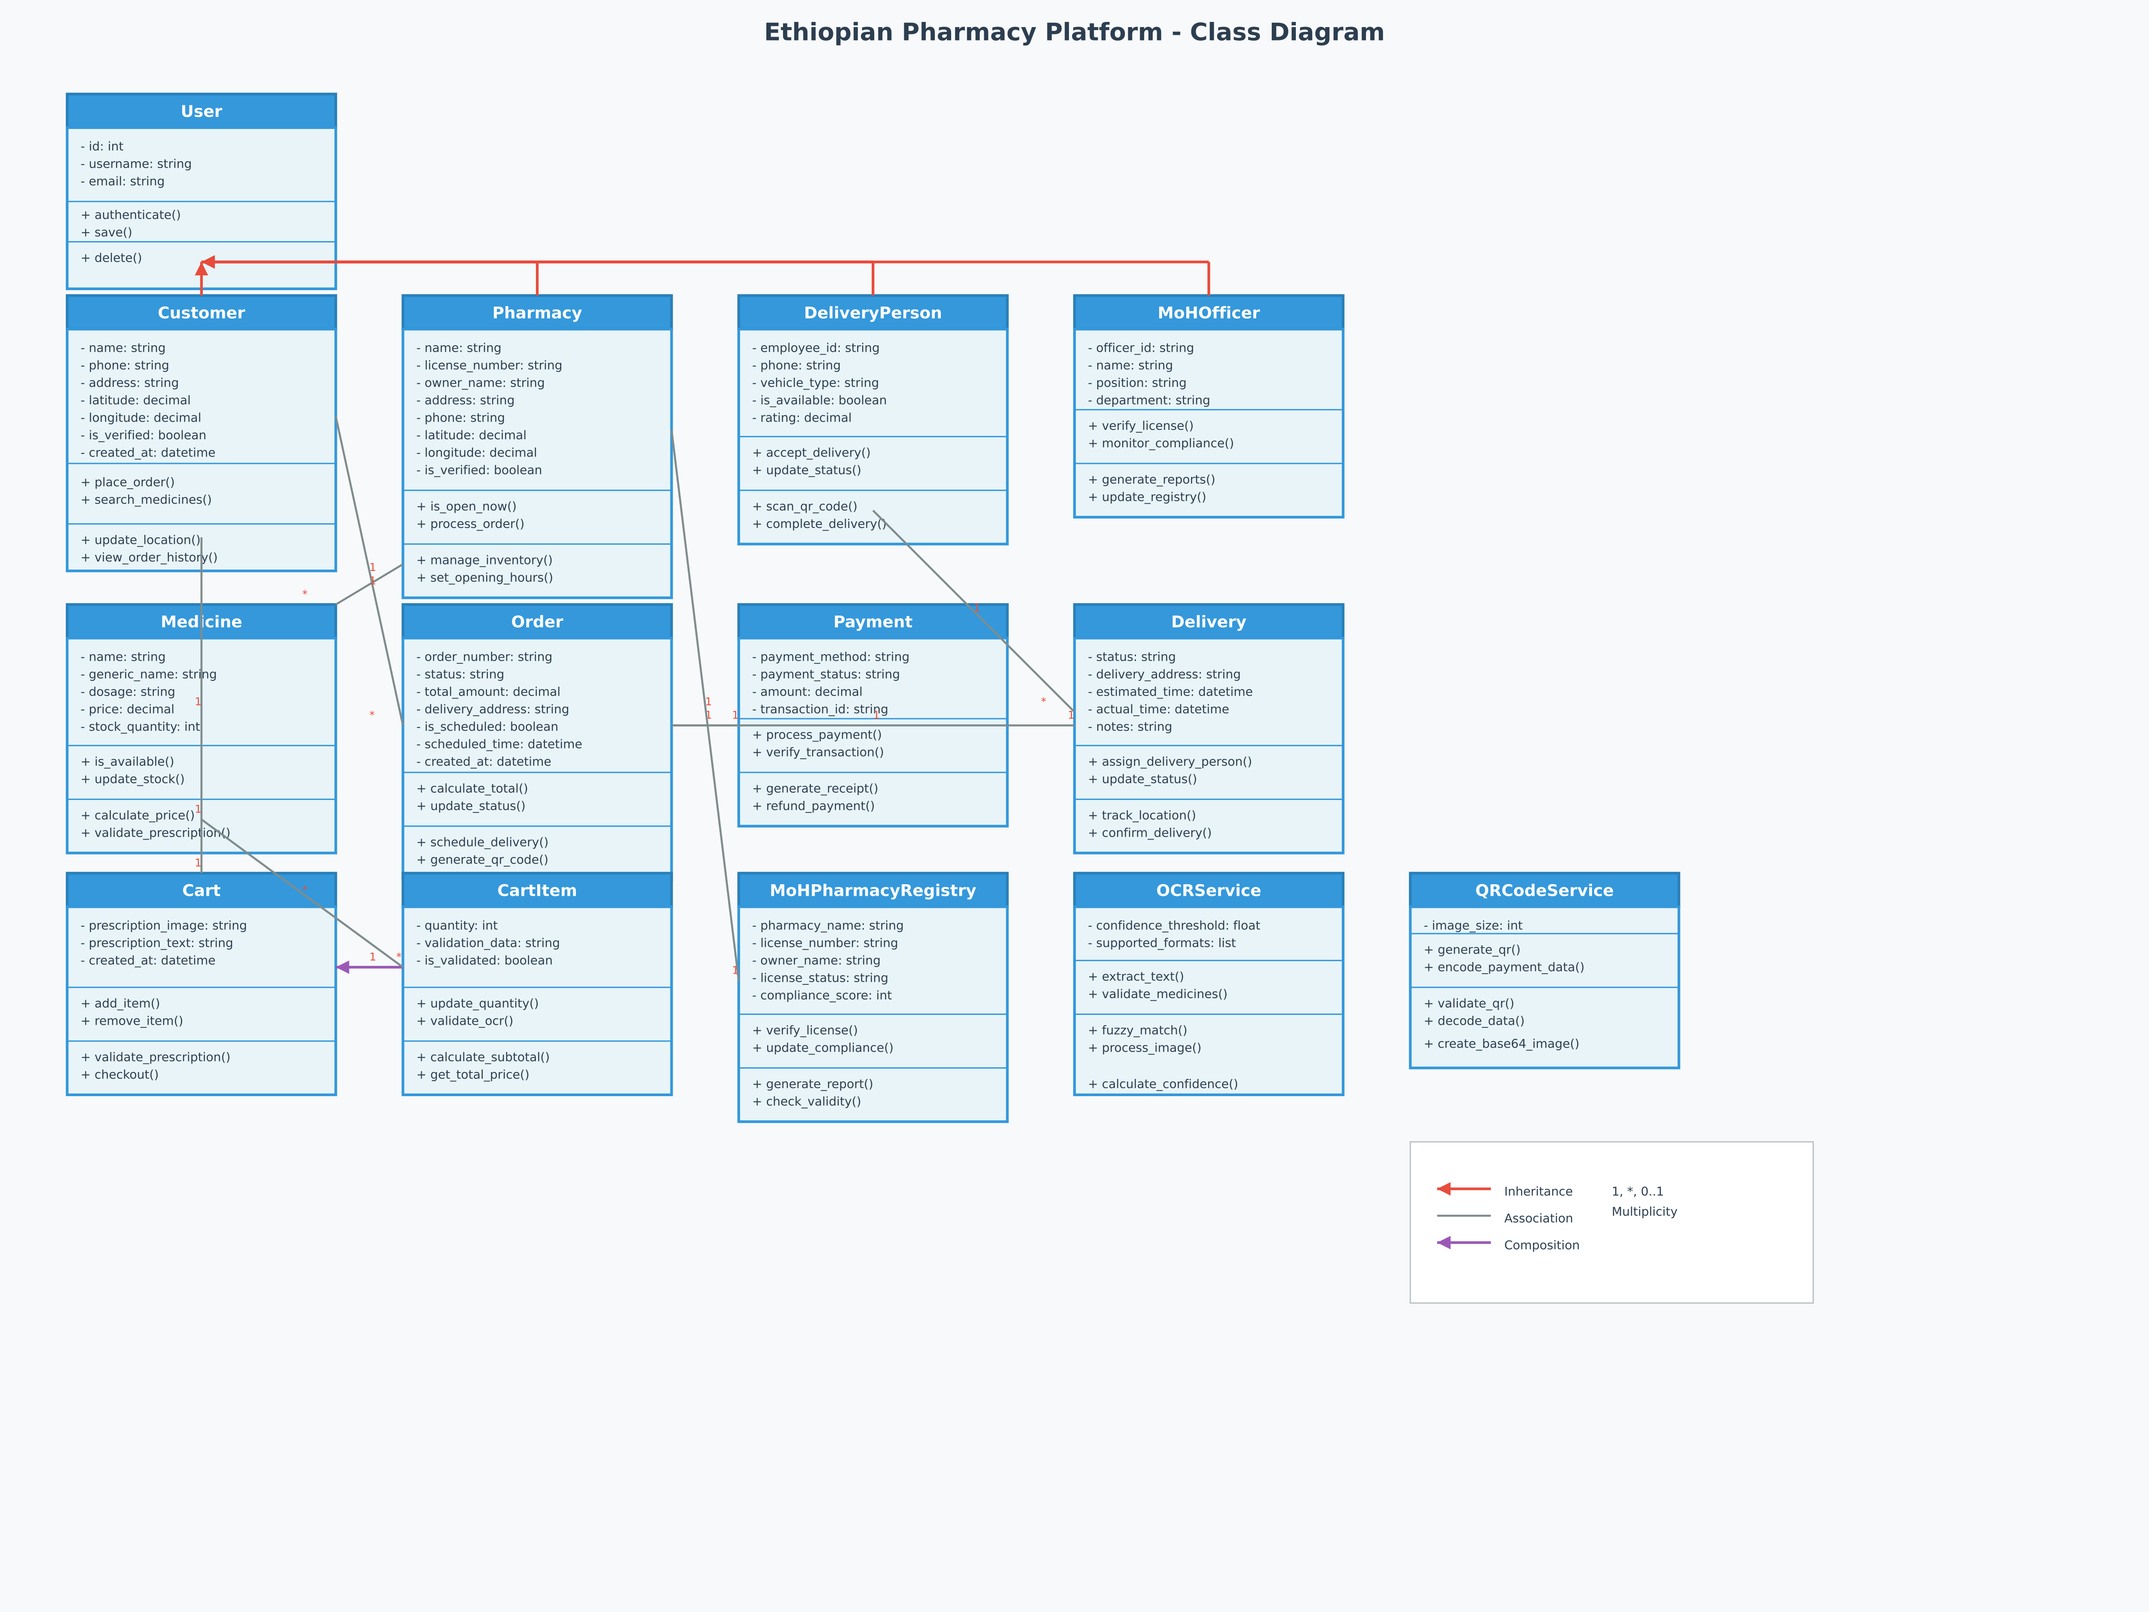
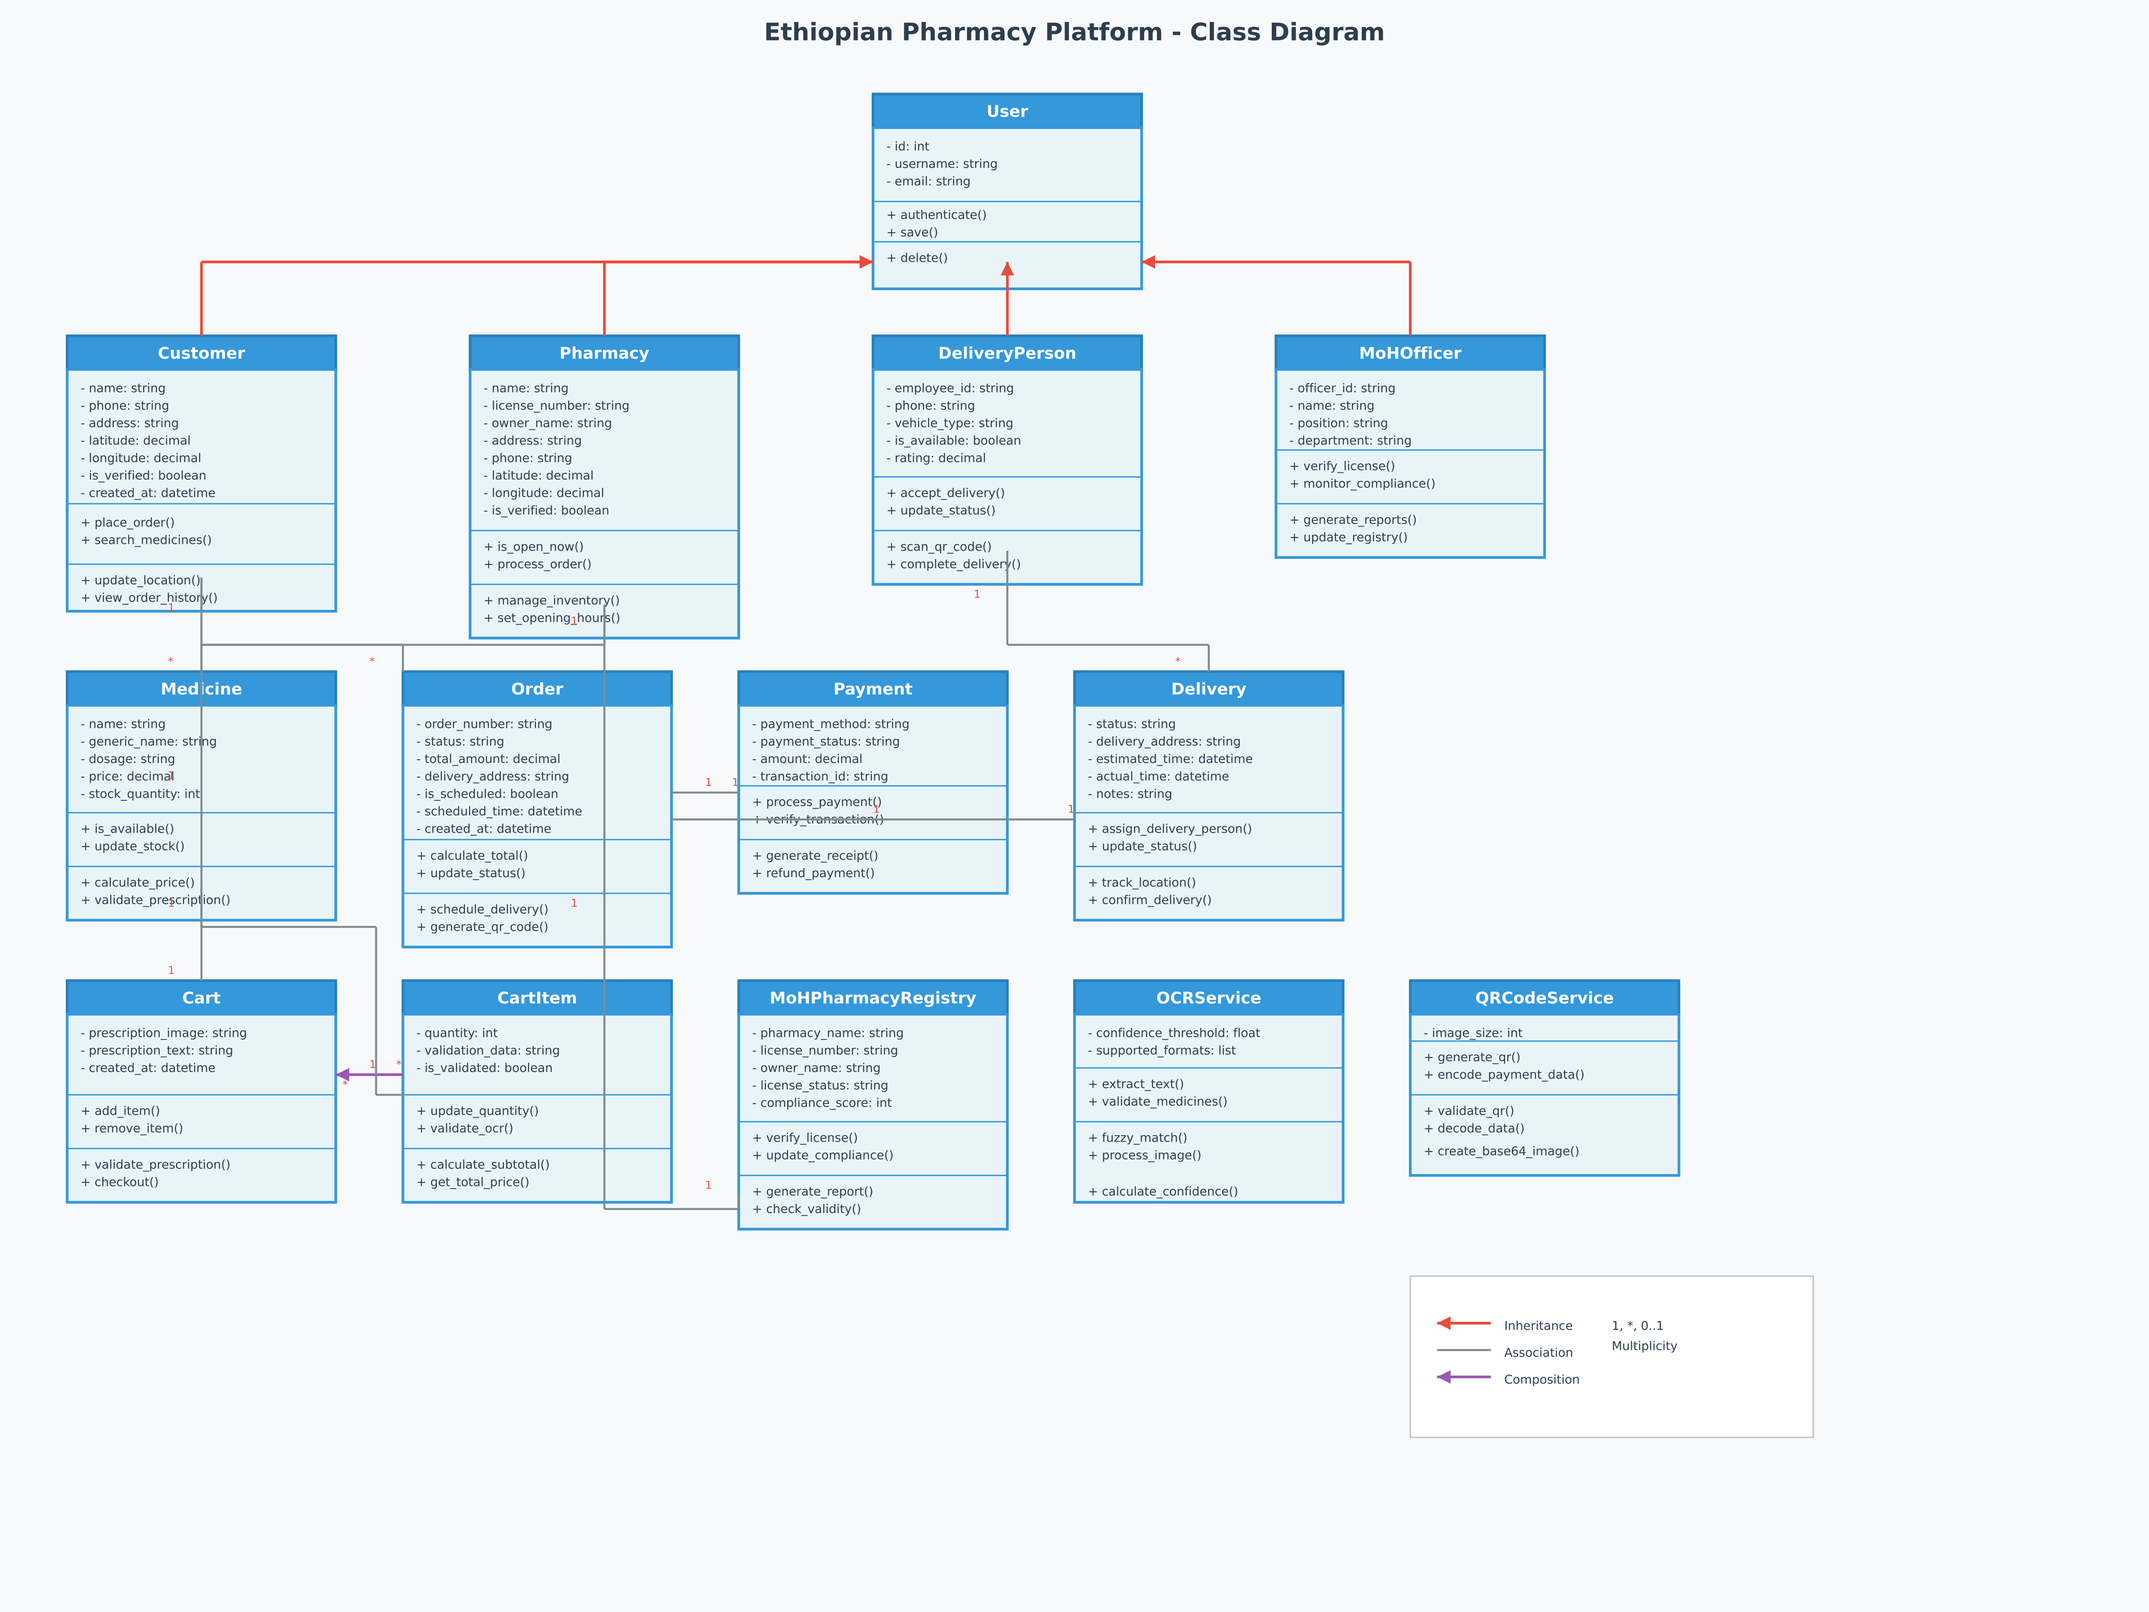
Rearrange elements in class diagram for improved readability and clarity
Repositions class diagram elements in class_diagram.py and SVG to prevent overlap.

Replit-Commit-Author: Agent
Replit-Commit-Session-Id: 049bb483-77e7-4104-a8ac-e9cb16096b01
Replit-Commit-Screenshot-Url: https://storage.googleapis.com/screenshot-production-us-central1/099855aa-fdc1-4c7a-b841-b0aadc4a57d0/953d0f03-541a-41b2-b32b-20188949d618.jpg

diff --git a/class_diagram.py b/class_diagram.py
@@ -33,8 +33,8 @@ def generate_class_diagram():
   <!-- Title -->
   <text x="800" y="30" class="title">Ethiopian Pharmacy Platform - Class Diagram</text>
   
-  <!-- User Class (Base) -->
-  <g transform="translate(50,70)">
+  <!-- User Class (Base) - Centered at top -->
+  <g transform="translate(650,70)">
     <rect width="200" height="25" class="class-header"/>
     <text x="100" y="17" class="class-name">User</text>
     <rect y="25" width="200" height="120" class="class-box"/>
@@ -50,8 +50,8 @@ def generate_class_diagram():
     <text x="10" y="125" class="attribute-text">+ delete()</text>
   </g>
   
-  <!-- Customer Class -->
-  <g transform="translate(50,220)">
+  <!-- Customer Class - Top left -->
+  <g transform="translate(50,250)">
     <rect width="200" height="25" class="class-header"/>
     <text x="100" y="17" class="class-name">Customer</text>
     <rect y="25" width="200" height="180" class="class-box"/>
@@ -74,8 +74,8 @@ def generate_class_diagram():
     <text x="10" y="198" class="method-text">+ view_order_history()</text>
   </g>
   
-  <!-- Pharmacy Class -->
-  <g transform="translate(300,220)">
+  <!-- Pharmacy Class - Top center-left -->
+  <g transform="translate(350,250)">
     <rect width="200" height="25" class="class-header"/>
     <text x="100" y="17" class="class-name">Pharmacy</text>
     <rect y="25" width="200" height="200" class="class-box"/>
@@ -99,8 +99,8 @@ def generate_class_diagram():
     <text x="10" y="213" class="method-text">+ set_opening_hours()</text>
   </g>
   
-  <!-- DeliveryPerson Class -->
-  <g transform="translate(550,220)">
+  <!-- DeliveryPerson Class - Top center-right -->
+  <g transform="translate(650,250)">
     <rect width="200" height="25" class="class-header"/>
     <text x="100" y="17" class="class-name">DeliveryPerson</text>
     <rect y="25" width="200" height="160" class="class-box"/>
@@ -121,8 +121,8 @@ def generate_class_diagram():
     <text x="10" y="173" class="method-text">+ complete_delivery()</text>
   </g>
   
-  <!-- MoHOfficer Class -->
-  <g transform="translate(800,220)">
+  <!-- MoHOfficer Class - Top right -->
+  <g transform="translate(950,250)">
     <rect width="200" height="25" class="class-header"/>
     <text x="100" y="17" class="class-name">MoHOfficer</text>
     <rect y="25" width="200" height="140" class="class-box"/>
@@ -142,8 +142,8 @@ def generate_class_diagram():
     <text x="10" y="153" class="method-text">+ update_registry()</text>
   </g>
   
-  <!-- Medicine Class -->
-  <g transform="translate(50,450)">
+  <!-- Medicine Class - Bottom left -->
+  <g transform="translate(50,500)">
     <rect width="200" height="25" class="class-header"/>
     <text x="100" y="17" class="class-name">Medicine</text>
     <rect y="25" width="200" height="160" class="class-box"/>
@@ -164,8 +164,8 @@ def generate_class_diagram():
     <text x="10" y="173" class="method-text">+ validate_prescription()</text>
   </g>
   
-  <!-- Order Class -->
-  <g transform="translate(300,450)">
+  <!-- Order Class - Bottom center-left -->
+  <g transform="translate(300,500)">
     <rect width="200" height="25" class="class-header"/>
     <text x="100" y="17" class="class-name">Order</text>
     <rect y="25" width="200" height="180" class="class-box"/>
@@ -188,8 +188,8 @@ def generate_class_diagram():
     <text x="10" y="193" class="method-text">+ generate_qr_code()</text>
   </g>
   
-  <!-- Payment Class -->
-  <g transform="translate(550,450)">
+  <!-- Payment Class - Bottom center -->
+  <g transform="translate(550,500)">
     <rect width="200" height="25" class="class-header"/>
     <text x="100" y="17" class="class-name">Payment</text>
     <rect y="25" width="200" height="140" class="class-box"/>
@@ -209,8 +209,8 @@ def generate_class_diagram():
     <text x="10" y="153" class="method-text">+ refund_payment()</text>
   </g>
   
-  <!-- Delivery Class -->
-  <g transform="translate(800,450)">
+  <!-- Delivery Class - Bottom center-right -->
+  <g transform="translate(800,500)">
     <rect width="200" height="25" class="class-header"/>
     <text x="100" y="17" class="class-name">Delivery</text>
     <rect y="25" width="200" height="160" class="class-box"/>
@@ -231,8 +231,8 @@ def generate_class_diagram():
     <text x="10" y="173" class="method-text">+ confirm_delivery()</text>
   </g>
   
-  <!-- Cart Class -->
-  <g transform="translate(50,650)">
+  <!-- Cart Class - Far left -->
+  <g transform="translate(50,730)">
     <rect width="200" height="25" class="class-header"/>
     <text x="100" y="17" class="class-name">Cart</text>
     <rect y="25" width="200" height="140" class="class-box"/>
@@ -251,8 +251,8 @@ def generate_class_diagram():
     <text x="10" y="153" class="method-text">+ checkout()</text>
   </g>
   
-  <!-- CartItem Class -->
-  <g transform="translate(300,650)">
+  <!-- CartItem Class - Left -->
+  <g transform="translate(300,730)">
     <rect width="200" height="25" class="class-header"/>
     <text x="100" y="17" class="class-name">CartItem</text>
     <rect y="25" width="200" height="140" class="class-box"/>
@@ -271,8 +271,8 @@ def generate_class_diagram():
     <text x="10" y="153" class="method-text">+ get_total_price()</text>
   </g>
   
-  <!-- MoHPharmacyRegistry Class -->
-  <g transform="translate(550,650)">
+  <!-- MoHPharmacyRegistry Class - Center -->
+  <g transform="translate(550,730)">
     <rect width="200" height="25" class="class-header"/>
     <text x="100" y="17" class="class-name">MoHPharmacyRegistry</text>
     <rect y="25" width="200" height="160" class="class-box"/>
@@ -293,8 +293,8 @@ def generate_class_diagram():
     <text x="10" y="173" class="method-text">+ check_validity()</text>
   </g>
   
-  <!-- OCRService Class -->
-  <g transform="translate(800,650)">
+  <!-- OCRService Class - Right -->
+  <g transform="translate(800,730)">
     <rect width="200" height="25" class="class-header"/>
     <text x="100" y="17" class="class-name">OCRService</text>
     <rect y="25" width="200" height="140" class="class-box"/>
@@ -313,8 +313,8 @@ def generate_class_diagram():
     <text x="10" y="160" class="method-text">+ calculate_confidence()</text>
   </g>
   
-  <!-- QRCodeService Class -->
-  <g transform="translate(1050,650)">
+  <!-- QRCodeService Class - Far right -->
+  <g transform="translate(1050,730)">
     <rect width="200" height="25" class="class-header"/>
     <text x="100" y="17" class="class-name">QRCodeService</text>
     <rect y="25" width="200" height="120" class="class-box"/>
@@ -332,75 +332,86 @@ def generate_class_diagram():
     <text x="10" y="130" class="method-text">+ create_base64_image()</text>
   </g>
   
-  <!-- Inheritance Relationships -->
+  <!-- Inheritance Relationships - Clean lines avoiding crossings -->
   <!-- Customer inherits from User -->
-  <line x1="150" y1="195" x2="150" y2="220" class="inheritance"/>
-  <polygon points="150,195 145,205 155,205" fill="#e74c3c"/>
+  <line x1="650" y1="195" x2="150" y2="195" class="inheritance"/>
+  <line x1="150" y1="195" x2="150" y2="250" class="inheritance"/>
+  <polygon points="650,195 640,190 640,200" fill="#e74c3c"/>
   
   <!-- Pharmacy inherits from User -->
-  <line x1="150" y1="195" x2="400" y2="195" class="inheritance"/>
-  <line x1="400" y1="195" x2="400" y2="220" class="inheritance"/>
-  <polygon points="150,195 160,190 160,200" fill="#e74c3c"/>
+  <line x1="650" y1="195" x2="450" y2="195" class="inheritance"/>
+  <line x1="450" y1="195" x2="450" y2="250" class="inheritance"/>
+  <polygon points="650,195 640,190 640,200" fill="#e74c3c"/>
   
   <!-- DeliveryPerson inherits from User -->
-  <line x1="150" y1="195" x2="650" y2="195" class="inheritance"/>
-  <line x1="650" y1="195" x2="650" y2="220" class="inheritance"/>
-  <polygon points="150,195 160,190 160,200" fill="#e74c3c"/>
+  <line x1="750" y1="195" x2="750" y2="250" class="inheritance"/>
+  <polygon points="750,195 745,205 755,205" fill="#e74c3c"/>
   
   <!-- MoHOfficer inherits from User -->
-  <line x1="150" y1="195" x2="900" y2="195" class="inheritance"/>
-  <line x1="900" y1="195" x2="900" y2="220" class="inheritance"/>
-  <polygon points="150,195 160,190 160,200" fill="#e74c3c"/>
+  <line x1="850" y1="195" x2="1050" y2="195" class="inheritance"/>
+  <line x1="1050" y1="195" x2="1050" y2="250" class="inheritance"/>
+  <polygon points="850,195 860,190 860,200" fill="#e74c3c"/>
   
-  <!-- Associations -->
-  <!-- Customer -> Order -->
-  <line x1="250" y1="310" x2="300" y2="540" class="association"/>
-  <text x="275" y="425" class="multiplicity">1</text>
-  <text x="275" y="535" class="multiplicity">*</text>
+  <!-- Business Associations - Optimized paths -->
+  <!-- Customer -> Order (direct down) -->
+  <line x1="150" y1="430" x2="150" y2="480" class="association"/>
+  <line x1="150" y1="480" x2="300" y2="480" class="association"/>
+  <line x1="300" y1="480" x2="300" y2="500" class="association"/>
+  <text x="125" y="455" class="multiplicity">1</text>
+  <text x="275" y="495" class="multiplicity">*</text>
   
-  <!-- Pharmacy -> Medicine -->
-  <line x1="300" y1="420" x2="250" y2="450" class="association"/>
-  <text x="275" y="435" class="multiplicity">1</text>
-  <text x="225" y="445" class="multiplicity">*</text>
+  <!-- Pharmacy -> Medicine (direct down) -->
+  <line x1="450" y1="450" x2="450" y2="480" class="association"/>
+  <line x1="450" y1="480" x2="150" y2="480" class="association"/>
+  <line x1="150" y1="480" x2="150" y2="500" class="association"/>
+  <text x="425" y="465" class="multiplicity">1</text>
+  <text x="125" y="495" class="multiplicity">*</text>
   
-  <!-- Order -> Payment -->
-  <line x1="500" y1="540" x2="550" y2="540" class="association"/>
-  <text x="525" y="535" class="multiplicity">1</text>
-  <text x="545" y="535" class="multiplicity">1</text>
+  <!-- Order -> Payment (horizontal) -->
+  <line x1="500" y1="590" x2="550" y2="590" class="association"/>
+  <text x="525" y="585" class="multiplicity">1</text>
+  <text x="545" y="585" class="multiplicity">1</text>
   
-  <!-- Order -> Delivery -->
-  <line x1="500" y1="540" x2="800" y2="540" class="association"/>
-  <text x="650" y="535" class="multiplicity">1</text>
-  <text x="795" y="535" class="multiplicity">1</text>
+  <!-- Order -> Delivery (horizontal) -->
+  <line x1="500" y1="610" x2="800" y2="610" class="association"/>
+  <text x="650" y="605" class="multiplicity">1</text>
+  <text x="795" y="605" class="multiplicity">1</text>
   
-  <!-- Customer -> Cart -->
-  <line x1="150" y1="400" x2="150" y2="650" class="association"/>
-  <text x="145" y="525" class="multiplicity">1</text>
-  <text x="145" y="645" class="multiplicity">1</text>
+  <!-- Customer -> Cart (direct down) -->
+  <line x1="150" y1="430" x2="150" y2="730" class="association"/>
+  <text x="125" y="580" class="multiplicity">1</text>
+  <text x="125" y="725" class="multiplicity">1</text>
   
-  <!-- Cart -> CartItem -->
-  <line x1="250" y1="720" x2="300" y2="720" class="composition"/>
-  <polygon points="250,720 260,715 260,725" fill="#9b59b6"/>
-  <text x="275" y="715" class="multiplicity">1</text>
-  <text x="295" y="715" class="multiplicity">*</text>
+  <!-- Cart -> CartItem (horizontal) -->
+  <line x1="250" y1="800" x2="300" y2="800" class="composition"/>
+  <polygon points="250,800 260,795 260,805" fill="#9b59b6"/>
+  <text x="275" y="795" class="multiplicity">1</text>
+  <text x="295" y="795" class="multiplicity">*</text>
   
-  <!-- CartItem -> Medicine -->
-  <line x1="300" y1="720" x2="150" y2="610" class="association"/>
-  <text x="225" y="665" class="multiplicity">*</text>
-  <text x="145" y="605" class="multiplicity">1</text>
+  <!-- CartItem -> Medicine (clean path) -->
+  <line x1="300" y1="815" x2="280" y2="815" class="association"/>
+  <line x1="280" y1="815" x2="280" y2="690" class="association"/>
+  <line x1="280" y1="690" x2="150" y2="690" class="association"/>
+  <line x1="150" y1="690" x2="150" y2="660" class="association"/>
+  <text x="255" y="810" class="multiplicity">*</text>
+  <text x="125" y="675" class="multiplicity">1</text>
   
-  <!-- DeliveryPerson -> Delivery -->
-  <line x1="650" y1="380" x2="800" y2="530" class="association"/>
-  <text x="725" y="455" class="multiplicity">1</text>
-  <text x="775" y="525" class="multiplicity">*</text>
+  <!-- DeliveryPerson -> Delivery (clean path) -->
+  <line x1="750" y1="410" x2="750" y2="480" class="association"/>
+  <line x1="750" y1="480" x2="900" y2="480" class="association"/>
+  <line x1="900" y1="480" x2="900" y2="500" class="association"/>
+  <text x="725" y="445" class="multiplicity">1</text>
+  <text x="875" y="495" class="multiplicity">*</text>
   
-  <!-- Pharmacy -> MoHPharmacyRegistry -->
-  <line x1="500" y1="320" x2="550" y2="730" class="association"/>
-  <text x="525" y="525" class="multiplicity">1</text>
-  <text x="545" y="725" class="multiplicity">1</text>
+  <!-- Pharmacy -> MoHPharmacyRegistry (clean path) -->
+  <line x1="450" y1="450" x2="450" y2="900" class="association"/>
+  <line x1="450" y1="900" x2="550" y2="900" class="association"/>
+  <line x1="550" y1="900" x2="550" y2="890" class="association"/>
+  <text x="425" y="675" class="multiplicity">1</text>
+  <text x="525" y="885" class="multiplicity">1</text>
   
   <!-- Legend -->
-  <g transform="translate(1050,850)">
+  <g transform="translate(1050,950)">
     <rect width="300" height="120" fill="white" stroke="#bdc3c7" stroke-width="1"/>
     <text x="150" y="20" class="class-name" fill="#2c3e50">Relationships</text>
     
